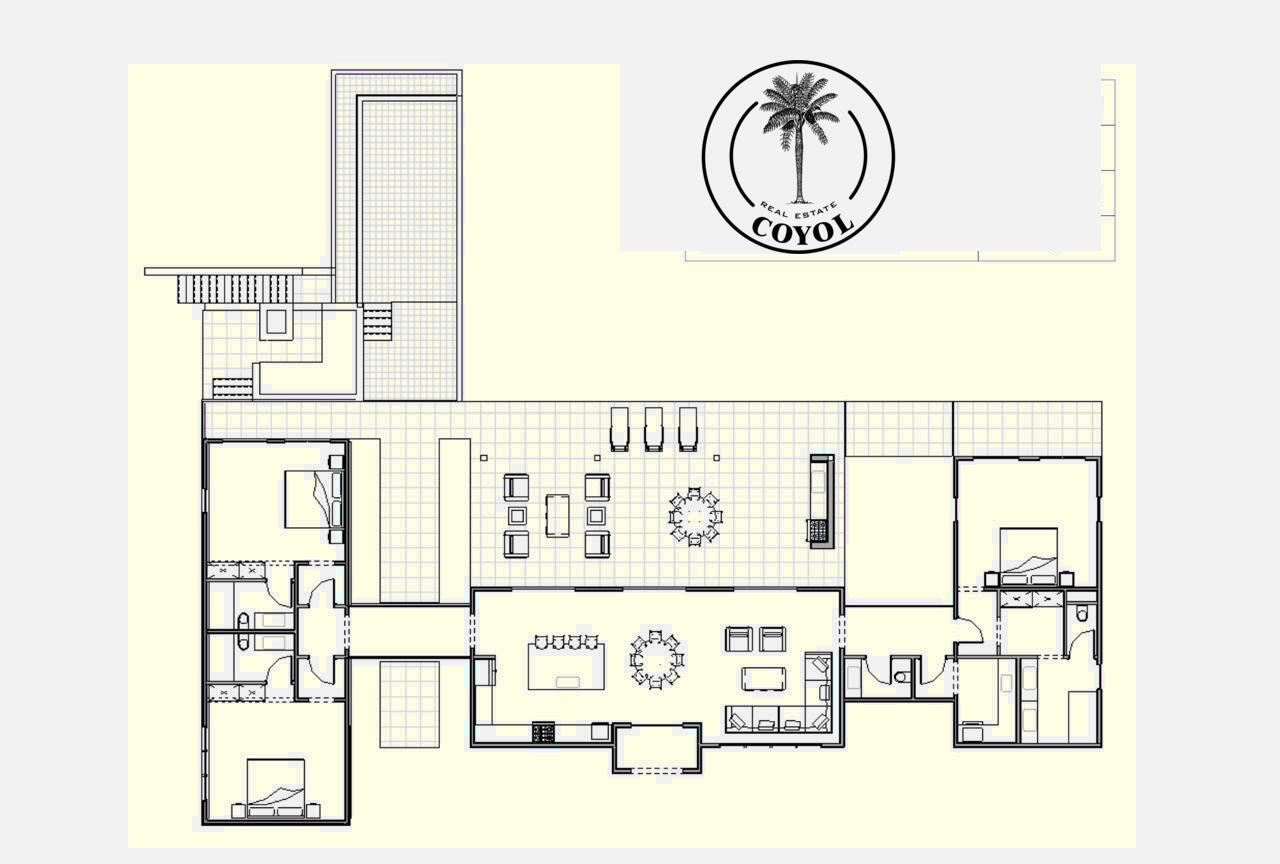
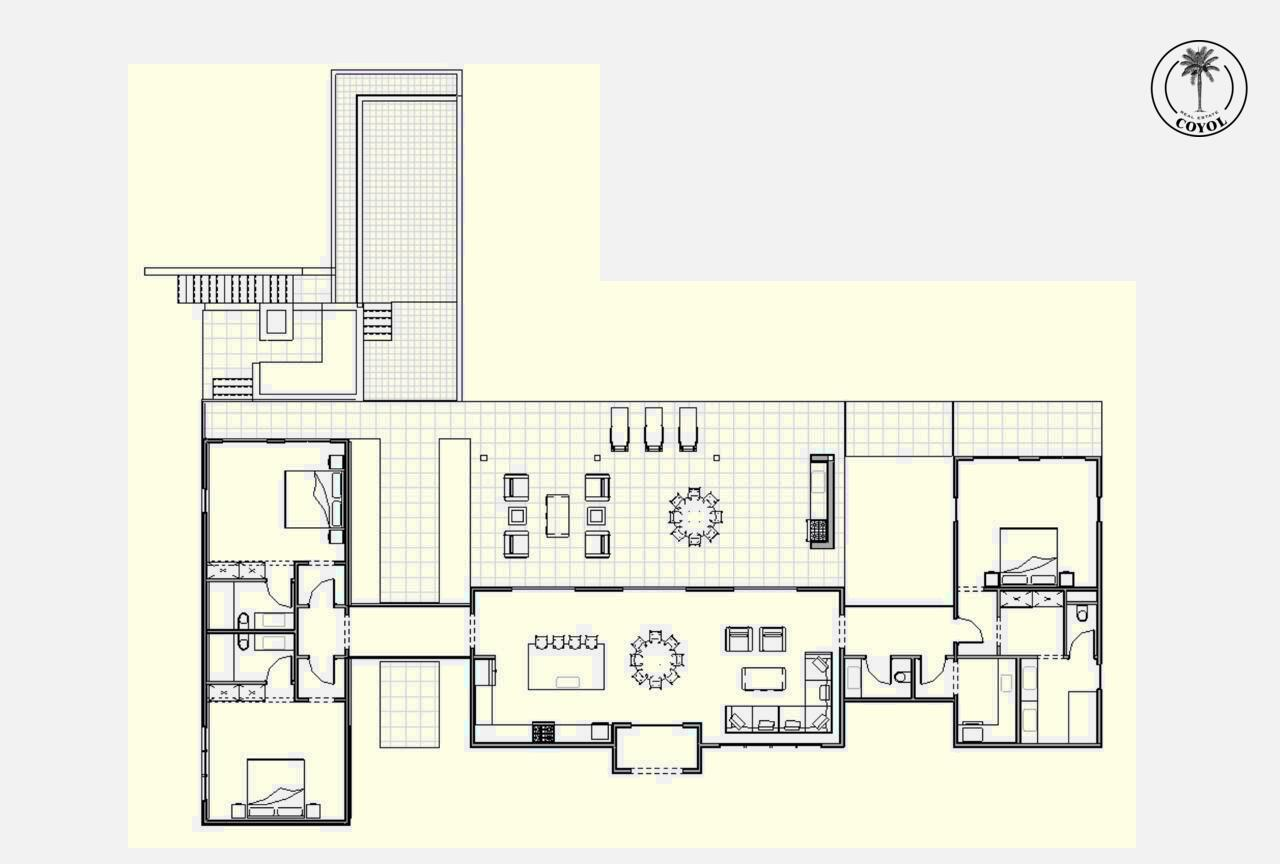
Amanda Casa Cacao proposal - complete

Changed region(s): [[0.5312, 0.0625, 0.7188, 0.3125], [0.9062, 0.0312, 0.9688, 0.1562]]

diff --git a/projects/mar-azul/amanda-casa-cacao.html b/projects/mar-azul/amanda-casa-cacao.html
@@ -497,6 +497,37 @@
       </div>
     </div>
     
+    <!-- What's Included -->
+    <div class="investment-summary" style="margin-bottom: 25px;">
+      <h2 class="investment-title">What's Included</h2>
+      <div style="display: grid; grid-template-columns: 1fr 1fr; gap: 20px; font-size: 12px;">
+        <div>
+          <div style="color: #C4A67C; font-weight: 500; margin-bottom: 8px;">✓ Included</div>
+          <ul style="color: #bbb; margin-left: 15px; line-height: 1.8;">
+            <li>Finished house with high-end finishes</li>
+            <li>Closets & built-ins (similar to Casa Elle & Casa Beauty)</li>
+            <li>Bathrooms fully finished</li>
+            <li>Kitchen with cabinetry, countertops & appliances</li>
+            <li>A/C throughout</li>
+            <li>Pool with finishes</li>
+            <li>Covered & open terraces</li>
+            <li>Basic landscaping with irrigation system</li>
+          </ul>
+        </div>
+        <div>
+          <div style="color: #888; font-weight: 500; margin-bottom: 8px;">✗ Not Included</div>
+          <ul style="color: #666; margin-left: 15px; line-height: 1.8;">
+            <li>Interior design services</li>
+            <li>Kitchen cutlery, plates & utensils</li>
+            <li>Furniture (beds, tables, chairs, sofas)</li>
+            <li>Garden furniture</li>
+            <li>Pool furniture</li>
+            <li>Solar power backup system</li>
+          </ul>
+        </div>
+      </div>
+    </div>
+
     <!-- Journey Title -->
     <h2 class="section-title" style="margin-bottom: 20px;">Your Journey Home</h2>
     
@@ -535,7 +566,7 @@
           <span class="step-timing">Week 2-4</span>
         </div>
         <div class="step-content">
-          Work with our architect on final details. Sign fixed-price construction contract.
+          Work with our architect on final details. Select your finishes from the <a href="https://coyolnosara.com/casa-cacao-finishes.html" style="color: #C4A67C;">Casa Cacao Finishes Presentation</a>. Sign fixed-price construction contract.
         </div>
       </div>
       
@@ -612,6 +643,8 @@
             <div style="margin-top: 10px; font-size: 11px;">
               <span style="color: #888;">Access your portal:</span> 
               <a href="https://coyol-portal.vercel.app" style="color: #C4A67C; text-decoration: none;">coyol-portal.vercel.app</a>
+              <span style="color: #888; margin-left: 10px;">Code:</span> 
+              <span style="color: #C4A67C; font-weight: 500;">CC2026</span>
             </div>
           </div>
         </div>
@@ -631,6 +664,41 @@
       
     </div>
     
+    <!-- HOA Section -->
+    <div class="investment-summary" style="margin-top: 25px;">
+      <h2 class="investment-title">HOA & Community</h2>
+      <div style="display: grid; grid-template-columns: 1fr 1fr; gap: 20px; font-size: 12px;">
+        <div>
+          <div style="color: #C4A67C; font-weight: 500; margin-bottom: 8px;">Estimated Monthly Fees</div>
+          <div style="color: #bbb; line-height: 1.8;">
+            <div style="display: flex; justify-content: space-between; padding: 4px 0;">
+              <span>During construction</span>
+              <span style="color: #C4A67C;">~$250/month</span>
+            </div>
+            <div style="display: flex; justify-content: space-between; padding: 4px 0;">
+              <span>Once moved in</span>
+              <span style="color: #C4A67C;">~$300/month</span>
+            </div>
+          </div>
+          <div style="color: #666; font-size: 10px; margin-top: 8px; font-style: italic;">
+            *Fees may decrease as more buyers join the community and share common costs.
+          </div>
+        </div>
+        <div>
+          <div style="color: #C4A67C; font-weight: 500; margin-bottom: 8px;">HOA Includes</div>
+          <ul style="color: #bbb; margin-left: 15px; line-height: 1.8;">
+            <li>Water</li>
+            <li>Garbage collection</li>
+            <li>Security (night guard + daytime presence)</li>
+            <li>Gated access</li>
+            <li>Road maintenance</li>
+            <li>Tennis court</li>
+            <li>Common grounds maintenance</li>
+          </ul>
+        </div>
+      </div>
+    </div>
+
     <!-- Footer -->
     <div class="footer">
       <p class="contact-prompt">Ready to begin?</p>

diff --git a/memory/2026-07-23.md b/memory/2026-07-23.md
@@ -1,0 +1,84 @@
+# Memory — July 23, 2026
+
+## Amanda Casa Cacao Proposal — Final Updates
+
+### Presentation Refinements (late night session)
+- **Floor plan branding:** Coyol logo in corner, measurements table covered
+- **Portal code:** CC2026 added to Step 5
+- **Finishes link:** Direct URL → coyolnosara.com/casa-cacao-finishes.html (no login needed)
+
+### What's Included (added tonight)
+**✓ Included:**
+- Finished house with high-end finishes
+- Closets & built-ins (similar to Casa Elle & Casa Beauty)
+- Bathrooms fully finished
+- Kitchen with cabinetry, countertops & appliances
+- A/C throughout
+- Pool with finishes
+- Covered & open terraces
+- Basic landscaping with irrigation system
+
+**✗ Not Included:**
+- Interior design services
+- Kitchen cutlery, plates & utensils
+- Furniture (beds, tables, chairs, sofas)
+- Garden furniture
+- Pool furniture
+- Solar power backup system
+
+### HOA Details (added tonight)
+- **During construction:** ~$250/month
+- **Once moved in:** ~$300/month
+- Fees may decrease as more buyers join
+- **Includes:** Water, garbage collection, security (night guard + daytime presence), gated access, road maintenance, tennis court, common grounds
+
+### HOA Rate Calculation (from cobros judiciales)
+- Base rate: $156,448/year total budget distributed by lot area %
+- Lot 18 (1,744 m²) base fee: $212.51/month at 100%
+- Progressive rates: Unsold 20% → Sold 50% → Construction 75% → Lived-in 100%
+
+### Hosting Solution
+- Supabase storage serves HTML as raw text (doesn't render)
+- **Solution:** Deployed to Vercel
+- **Live URL:** https://proposals-gray.vercel.app/amanda.html
+- Ruth's meeting with Amanda: Thursday (today!)
+
+### Git Push Protection
+- GitHub blocked push due to Supabase API key detection
+- Need to remove secrets from HTML before committing
+
+---
+
+## Session Wrap-up (00:33)
+
+### Amanda Proposal — COMPLETE ✅
+**Final URL:** https://proposals-gray.vercel.app/amanda.html
+
+**Includes:**
+- Hero: Casa Cacao render
+- Lot 18: $420,000 (1,744 m²)
+- Construction: $1,530,000 (6 milestones @ $255K)
+- Total: $1,950,000
+- Floor plan with Coyol logo
+- Specs: 215 sqm indoor, 63 sqm covered, 102 sqm terraces, 40 sqm pool
+- What's Included / Not Included sections
+- HOA estimates (~$250 construction, ~$300 lived-in)
+- 6-step journey with links:
+  - Portal: coyol-portal.vercel.app (code: CC2026)
+  - Finishes: coyolnosara.com/casa-cacao-finishes.html
+  - Legal: ICS recommended
+- Ruth's contact in footer
+
+### Files Created
+- `~/.openclaw/workspace/projects/mar-azul/amanda-casa-cacao.html` (source)
+- `~/.openclaw/workspace/coyol-portal/public/proposals/amanda.html` (deployed)
+- Images: casa-cacao-render.jpg, casa-cacao-floorplan-branded.jpg
+
+### Leads Table — WORKING ✅
+- 3 leads captured: Ryan Edmonds, Casey Arrington, Amanda Fields
+- All from July 21, 2026
+- Ruth's form now functional
+
+### Next Steps (tomorrow)
+- Ruth's meeting with Amanda (Thursday)
+- Follow up on results

diff --git a/memory/2026-07-22.md b/memory/2026-07-22.md
@@ -1,0 +1,53 @@
+# Memory — July 22, 2026
+
+## Coyol Real Estate — Amanda Deal
+
+**Hot Lead:** Amanda (via Ruth)
+- **Lot:** 18 (1,744 m²)
+- **Model:** Casa Cacao (smaller/medium budget version)
+- **Lot Price:** $420,000
+- **Construction Price:** $1,530,000
+- **Total:** $1,950,000
+- **Status:** Ruth has meeting with Amanda on Thursday (July 23)
+
+### Casa Cacao Specs (smaller version)
+- Indoor: 215 sqm
+- Covered Terraces: 63 sqm
+- Open Terraces: 102 sqm
+- Pool: 40 sqm
+
+### Payment Terms (now standardized)
+- **Reservation:** $10,000 deposit
+- **Lot:** Paid in full before construction starts
+- **Construction:** 6 equal milestones @ 16.67% ($255K each for Amanda's deal)
+- **No escrow** — direct to Coyol
+
+### Created Tonight
+1. **Leads table in Supabase** — `public.leads` (Ruth's form was failing, now fixed)
+2. **Generic "Journey Home" PDF template** — `projects/mar-azul/buyer-journey-template.html`
+3. **Amanda's personalized PDF** — `projects/mar-azul/amanda-casa-cacao.html`
+   - Hero render
+   - Floor plan with Coyol logo
+   - Specs + pricing
+   - 6-step journey
+   - ICS legal recommendation
+   - Portal link: coyol-portal.vercel.app (code: CC2026)
+   - Finishes link: coyol-portal.vercel.app/finishes
+
+### Updated in Coyol Control
+- Lot 18 now has pricing, specs, and interested buyer (Amanda)
+
+## Gift Cards — La Luna
+- Checked Olivia Vandomelen's gift card email
+- **Status:** Delivered via Resend (2 days ago)
+- Email: olivia.vandomelen@gmail.com
+- No issues — just in spam/promotions folder
+
+## Team Notes
+- **Ruth Tal** — Mar Azul Sales (needs email for direct contact)
+- **ICS** — Recommended legal partner for DD, company formation, title transfer
+
+## Client Portal URLs
+- **Coyol Control (internal):** coyol-control.vercel.app
+- **Client Portal:** coyol-portal.vercel.app
+- Access codes follow pattern like CC2026
